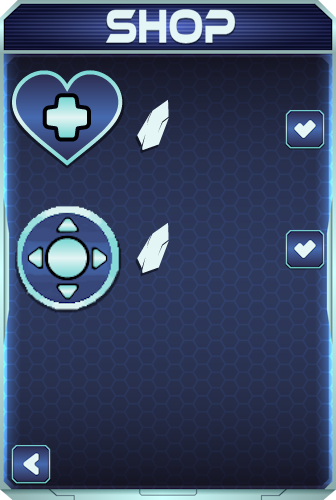
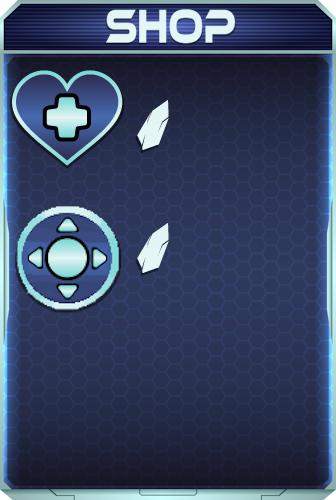
Switch upgrade buttons to JButtons for tactile feedback

Changed region(s): [[0.0298, 0.87, 0.1488, 0.99], [0.8333, 0.45, 0.9821, 0.54], [0.8333, 0.21, 0.9821, 0.3]]

diff --git a/src/Menu.java b/src/Menu.java
@@ -8,13 +8,18 @@ import java.awt.Graphics;
 import java.awt.Rectangle;
 import java.awt.Color;
 import java.awt.Font;
+import java.awt.event.ActionEvent;
+import java.awt.event.ActionListener;
 import java.awt.event.MouseEvent;
 import java.awt.event.MouseListener;
 import java.awt.image.BufferedImage;
 import java.io.IOException;
 
+import javax.swing.ImageIcon;
+import javax.swing.JButton;
 import javax.swing.JLabel;
 import javax.swing.JPanel;
+import javax.swing.JToggleButton;
 import javax.swing.SwingConstants;
 
 public class Menu extends JPanel implements MouseListener{
@@ -41,18 +46,24 @@ public class Menu extends JPanel implements MouseListener{
     private BufferedImage[] menuBackgrounds;    //Individual popup menu backgrounds
     private BufferedImage currentBackground;    //Current menu background
     private JLabel scoreLabel;                  //Displays score at end of game
+    private ButtonListener buttonListener;      //Upgrade button listener
+    private JButton[] upgradeButtons;           //Buttons for upgrading ship stats
+    private ImageIcon icon;                     //Upgrade button icon
 
     public Menu(GamePanel gPanel, ControlPanel cp) {
         //Initialize
         this.menuIndex = -1;
         this.menuBounds = new Rectangle[8];
-        this.buttonMask = new Rectangle[15];
+        this.buttonMask = new Rectangle[10];
         this.state = STATE.NONE;
         this.gPanel = gPanel;
         this.cPanel = cp;
         this.menuBackgrounds = new BufferedImage[8];
         this.currentBackground = null;
         this.scoreLabel = new JLabel("SCORE: 0", SwingConstants.CENTER);
+        this.buttonListener = new ButtonListener();
+        this.upgradeButtons = new JButton[5];
+        this.icon = null;
 
         //Score label settings
         scoreLabel.setBounds(100, 310, 194, 20);
@@ -72,22 +83,34 @@ public class Menu extends JPanel implements MouseListener{
         menuBounds[6] = new Rectangle(200, 10, 394, 511);   //Difficulty menu
         menuBounds[7] = new Rectangle(200, 10, 394, 511);   //Gameover panel
 
-        //Button masks for now because they are a bit easier than JButtons
-        buttonMask[0] = new Rectangle(285, 110, 40, 40);    //Shop Page 1 selector 1
-        buttonMask[1] = new Rectangle(285, 230, 40, 40);    //Shop Page 1 selector 2
-        buttonMask[2] = new Rectangle(285, 350, 40, 40);    //Shop Page 1 selector 3
-        buttonMask[3] = new Rectangle(285, 445, 40, 40);    //Shop Page 1 Forward
-        buttonMask[4] = new Rectangle(285, 110, 40, 40);    //Shop Page 2 Selector 1
-        buttonMask[5] = new Rectangle(285, 230, 40, 40);    //Shop Page 2 Selector 2
-        buttonMask[6] = new Rectangle(11, 445, 40, 40);     //Shop Page 2 Back
-        buttonMask[7] = new Rectangle(47, 40, 300, 100);    //Pause Menu restart
-        buttonMask[8] = new Rectangle(47, 200, 300, 100);   //Pause Menu MainMenu
-        buttonMask[9] = new Rectangle(47, 360, 300, 100);   //Pause Menu Exit
-        buttonMask[10] = new Rectangle(250, 400, 300, 100); //Main menu start button
-        buttonMask[11] = new Rectangle(47, 40, 300, 100);   //Difficulty Menu Easy
-        buttonMask[12] = new Rectangle(47, 200, 300, 100);  //Difficulty Menu Medium
-        buttonMask[13] = new Rectangle(47, 360, 300, 100);  //Difficulty Menu Hard
-        buttonMask[14] = new Rectangle(47, 350, 300, 100);  //Gameover Main Menu
+        //Button masks for all these are easier than JButtons
+        buttonMask[0] = new Rectangle(285, 445, 40, 40);    //Shop Page 1 Forward
+        buttonMask[1] = new Rectangle(11, 445, 40, 40);     //Shop Page 2 Back
+        buttonMask[2] = new Rectangle(47, 40, 300, 100);    //Pause Menu restart
+        buttonMask[3] = new Rectangle(47, 200, 300, 100);   //Pause Menu MainMenu
+        buttonMask[4] = new Rectangle(47, 360, 300, 100);   //Pause Menu Exit
+        buttonMask[5] = new Rectangle(250, 400, 300, 100); //Main menu start button
+        buttonMask[6] = new Rectangle(47, 40, 300, 100);   //Difficulty Menu Easy
+        buttonMask[7] = new Rectangle(47, 200, 300, 100);  //Difficulty Menu Medium
+        buttonMask[8] = new Rectangle(47, 360, 300, 100);  //Difficulty Menu Hard
+        buttonMask[9] = new Rectangle(47, 350, 300, 100);  //Gameover Main Menu
+
+        //JButtons
+        for(int i = 0; i < upgradeButtons.length; i++) {
+            upgradeButtons[i] = new JButton();
+            upgradeButtons[i].addActionListener(buttonListener);
+            upgradeButtons[i].setVisible(false);
+            upgradeButtons[i].setFocusable(false);
+            upgradeButtons[i].setBackground(new Color(0, 0, 0, 0));
+            upgradeButtons[i].setOpaque(false);
+            upgradeButtons[i].setBorderPainted(false);
+            this.add(upgradeButtons[i]);
+        }
+        upgradeButtons[0].setBounds(285, 110, 30, 30);
+        upgradeButtons[1].setBounds(285, 230, 30, 30);
+        upgradeButtons[2].setBounds(285, 350, 30, 30);
+        upgradeButtons[3].setBounds(285, 110, 30, 30);
+        upgradeButtons[4].setBounds(285, 230, 30, 30);
         
         //Panel preferences
         this.setLayout(null);
@@ -102,7 +125,7 @@ public class Menu extends JPanel implements MouseListener{
             menuBackgrounds[0] = loader.load("res/Menu.png");
             menuBackgrounds[1] = loader.load("res/ShipStats.png");
             menuBackgrounds[2] = loader.load("res/Shop1.png");
-            menuBackgrounds[3] = loader.load("res/shop2.png");
+            menuBackgrounds[3] = loader.load("res/Shop2.png");
             menuBackgrounds[4] = loader.load("res/Help.png");
             menuBackgrounds[5] = loader.load("res/StartBackground.png");
             menuBackgrounds[6] = loader.load("res/Difficulty.png");
@@ -117,43 +140,48 @@ public class Menu extends JPanel implements MouseListener{
         this.state = s;
 
         switch (state) {
-            case PAUSE:
-                menuIndex = 0;
-                break;
-            case STATS:
-                menuIndex = 1;
-                break;
-            case UPGRADE:
-                menuIndex = 2;
-                break;
-            case UPGRADE2:
-                menuIndex = 3;
-                break;
-            case HELP:
-                menuIndex = 4;
-                break;
-            case MAIN:
-                menuIndex = 5;
-                scoreLabel.setVisible(false);
-                break;
-            case DIFFICULTY:
-                menuIndex = 6;
-                break;
-            case GAMEOVER:
-                menuIndex = 7;
-                scoreLabel.setVisible(true);
-                break;
-            default:
-                menuIndex = -1;
-                this.setVisible(false);
-                break;
+            case PAUSE -> menuIndex = 0;
+            case STATS -> menuIndex = 1;
+            case UPGRADE -> menuIndex = 2;
+            case UPGRADE2 -> menuIndex = 3;
+            case HELP -> menuIndex = 4;
+            case MAIN -> menuIndex = 5;
+            case DIFFICULTY -> menuIndex = 6;
+            case GAMEOVER -> menuIndex = 7;
+            default -> menuIndex = -1;
         }
 
         //Display menu based on index
-        if (menuIndex != -1) {
+        if (menuIndex == -1) {
+            this.setVisible(false);
+        }
+        else {
             this.setBounds(menuBounds[menuIndex]);
             currentBackground = menuBackgrounds[menuIndex];
             this.setVisible(true);
+
+            //Button visibility
+            if (menuIndex == 2) {
+                upgradeButtons[3].setVisible(false);
+                upgradeButtons[4].setVisible(false);
+                for(int i = 0; i < 3; i++) upgradeButtons[i].setVisible(true);
+            }
+            else if (menuIndex == 3) {
+                upgradeButtons[3].setVisible(true);
+                upgradeButtons[4].setVisible(true);
+                for(int i = 0; i < 3; i++) upgradeButtons[i].setVisible(false);
+            }
+            else {
+                for(int i = 0; i < upgradeButtons.length; i++) upgradeButtons[i].setVisible(false);
+            }
+
+            //Label visibility
+            if (menuIndex == 7) {
+                scoreLabel.setVisible(true);
+            }
+            else {
+                scoreLabel.setVisible(false);
+            }
         }
     }
 
@@ -176,25 +204,25 @@ public class Menu extends JPanel implements MouseListener{
         switch (state) {
             case MAIN:
                 // Start button
-                if (buttonMask[10].contains(e.getPoint())) {
+                if (buttonMask[5].contains(e.getPoint())) {
                     setState(STATE.DIFFICULTY);
                 }
                 break;
             case DIFFICULTY:
                 //Get difficulty setting
-                if (buttonMask[11].contains(e.getPoint())) {
+                if (buttonMask[6].contains(e.getPoint())) {
                     //Easy
                     cPanel.setDifficulty(0);
                     setState(STATE.NONE);
                     startGame();
                 }
-                else if (buttonMask[12].contains(e.getPoint())) {
+                else if (buttonMask[7].contains(e.getPoint())) {
                     //Medium
                     cPanel.setDifficulty(1);
                     setState(STATE.NONE);
                     startGame();
                 }
-                else if (buttonMask[13].contains(e.getPoint())) {
+                else if (buttonMask[8].contains(e.getPoint())) {
                     //Hard
                     cPanel.setDifficulty(2);
                     setState(STATE.NONE);
@@ -203,7 +231,7 @@ public class Menu extends JPanel implements MouseListener{
                 break;
             case GAMEOVER:
                 //Main menu
-                if (buttonMask[14].contains(e.getPoint())) {
+                if (buttonMask[9].contains(e.getPoint())) {
                     cPanel.reset();
                     gPanel.reset();
                     setState(STATE.MAIN);
@@ -211,18 +239,18 @@ public class Menu extends JPanel implements MouseListener{
                 break;
             case PAUSE:
                 //Restart
-                if (buttonMask[7].contains(e.getPoint())) {
+                if (buttonMask[2].contains(e.getPoint())) {
                     cPanel.reset();
                     gPanel.reset();
                     startGame();
                 }
-                else if (buttonMask[8].contains(e.getPoint())) {
+                else if (buttonMask[3].contains(e.getPoint())) {
                     //Main menu
                     cPanel.reset();
                     gPanel.reset();
                     setState(STATE.MAIN);
                 }
-                else if (buttonMask[9].contains(e.getPoint())) {
+                else if (buttonMask[4].contains(e.getPoint())) {
                     //Exit
                     System.exit(0);
                 }
@@ -230,39 +258,27 @@ public class Menu extends JPanel implements MouseListener{
             case UPGRADE:
                 //Ship upgrade menu page 1
                 if (buttonMask[0].contains(e.getPoint())) {
-                    //Upgrade fire rate
-                    gPanel.upgradeFireRate();
-                }
-                else if (buttonMask[1].contains(e.getPoint())) {
-                    //Upgrade speed
-                    gPanel.upgradeSpeed();
-                }
-                else if (buttonMask[2].contains(e.getPoint())) {
-                    //Upgrade shield
-                    gPanel.upgradeShield();
-                }
-                else if (buttonMask[3].contains(e.getPoint())) {
                     //Next page
                     setState(STATE.UPGRADE2);
                 }
                 break;
             case UPGRADE2:
                 //Ship upgrade menu page 2
-                if (buttonMask[4].contains(e.getPoint())) {
-                    //Upgrade health
-                    gPanel.upgradeHealth();
-                }
-                else if (buttonMask[5].contains(e.getPoint())) {
-                    //Upgrade damage
-                    gPanel.upgradeDamage();
-                }
-                else if (buttonMask[6].contains(e.getPoint())) {
+                if (buttonMask[1].contains(e.getPoint())) {
                     //Previous page
                     setState((STATE.UPGRADE));
                 }
                 break;
         }
         repaint();
+    }
+
+    public void setButtonIcon(ImageIcon icon) {
+        this.icon = icon;
+
+        for(int i = 0; i < upgradeButtons.length; i++) {
+            upgradeButtons[i].setIcon(icon);
+        }
     }
 
     public void setScore(int score) {
@@ -285,4 +301,26 @@ public class Menu extends JPanel implements MouseListener{
 
     @Override
     public void mouseExited(MouseEvent e) {}
+
+    private class ButtonListener implements ActionListener{
+
+        @Override
+        public void actionPerformed(ActionEvent e) {
+            if (e.getSource() == upgradeButtons[0]) {
+                gPanel.upgradeFireRate();
+            }
+            else if (e.getSource() == upgradeButtons[1]) {
+                gPanel.upgradeSpeed();
+            }
+            else if (e.getSource() == upgradeButtons[2]) {
+                gPanel.upgradeShield();
+            }
+            else if (e.getSource() == upgradeButtons[3]) {
+                gPanel.upgradeHealth();
+            }
+            else if (e.getSource() == upgradeButtons[4]) {
+                gPanel.upgradeDamage();
+            }
+        }
+    }
 }

diff --git a/src/ControlPanel.java b/src/ControlPanel.java
@@ -130,6 +130,9 @@ public class ControlPanel extends JPanel{
             this.add(menuButtons[j]);
             menuButtons[j].setSelectedIcon(icons[j+7]);
         }
+
+        //Set Menu button icon
+        menu.setButtonIcon(new ImageIcon((Image)UI_SS.getSprite(12, 1)));
     }
 
     //Game tick
@@ -219,7 +222,14 @@ public class ControlPanel extends JPanel{
                 case KeyEvent.VK_ESCAPE:
                 case KeyEvent.VK_E:
                     if (!(menu.getState() == Menu.STATE.MAIN)) {
-                        menuButtons[2].doClick();
+                        switch (menu.getState()) {
+                            case STATS -> menuButtons[0].doClick();
+                            case PAUSE -> menuButtons[2].doClick();
+                            case UPGRADE -> menuButtons[1].doClick();
+                            case UPGRADE2 -> menuButtons[1].doClick();
+                            case HELP -> menuButtons[5].doClick();
+                            case NONE -> menuButtons[2].doClick();
+                        }
                     }
                     break;
             }

diff --git a/src/Avatar.java b/src/Avatar.java
@@ -133,7 +133,6 @@ public class Avatar extends Ship{
                 Projectile projectile = new Projectile(getProjectileSprite(), getGP(), this, isBeamProjectile);
                 getGP().getObjectManager().addFriendly(projectile);
                 fireCount--;
-                System.out.printf("Damge: %f and Firerate: %f\n", getDamage(), getFireRate());
             }
         }
     }
